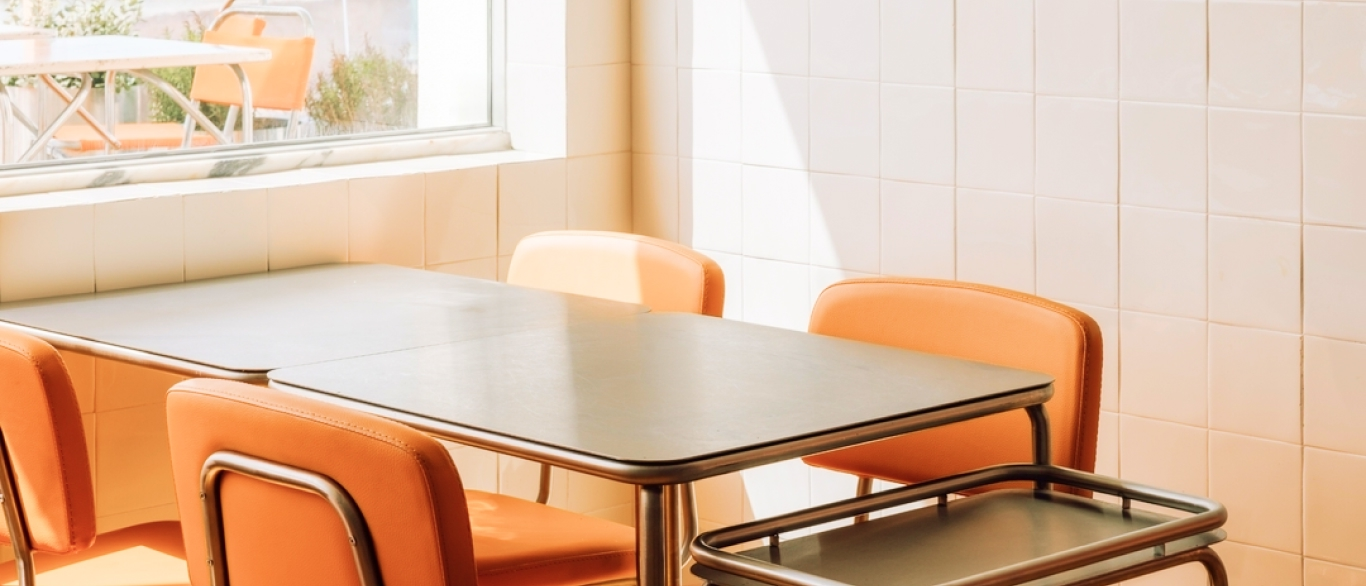
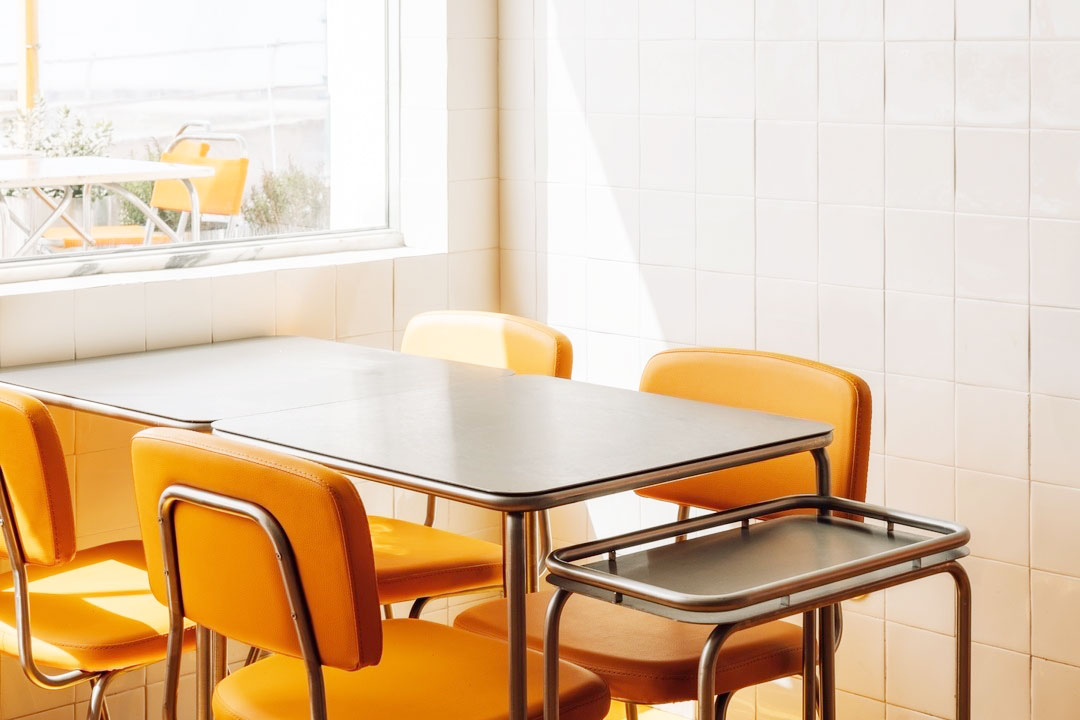
ajustes na home

diff --git a/src/pages/home/sectionAbout/index.tsx b/src/pages/home/sectionAbout/index.tsx
@@ -1,21 +1,31 @@
 import Styles from './About.module.scss';
-import imageAbout from 'assets/image-3.jpg';
+import imageAbout from 'assets/image-3_b.jpg';
+import imageSunset from 'assets/imageGallery_05.jpg';
 
-export default function About () {
+export default function About() {
     return (
         <section className={Styles.about}>
 
             <article className={Styles.about__container}>
                 <h2 className={Styles.about__container__title}>About the Costa Fria restaurant</h2>
-                <p className={Styles.about__container__text}>A modern restaurant that combines a cozy atmosphere with contemporary aesthetics. The interior space is charming, with an industrial design and steel tables that blend with vibrant-colored chairs, creating an interesting contrast. The textured ceiling, reminiscent of the sea foam that washes the coast, contrasts with the industrial lighting and exposed structure, creating a modern and laid-back environment. At sunset, the restaurant transforms into an ideal spot to enjoy the breathtaking view of the ocean in the background, where visitors can relax over dinner as daylight fades. The open kitchen also invites interaction, offering a glimpse into the preparation of dishes that highlight the fresh flavors of the region.</p>
-                <h2 className={Styles.about__container__title}>The concept</h2>
+                <p className={Styles.about__container__text}>A modern restaurant that combines a cozy atmosphere with contemporary aesthetics. The interior space is charming, with an industrial design and steel tables that blend with vibrant-colored chairs, creating an interesting contrast. The textured ceiling, reminiscent of the sea foam that washes the coast, contrasts with the industrial lighting and exposed structure, creating a modern and laid-back environment.</p>
+                <h2 className={Styles.about__container__titleConcept}>The concept</h2>
                 <p className={Styles.about__container__text}>Inspired by our idyllic seaside setting along the Atlantic coast, we bring bold flavors, coastal ingredients, and the diversity of Portuguese culinary culture. Contemporary and classic dishes, designed for sharing.
                 </p>
-                <span className={Styles.about__container__welcome}>welcome to ericeira</span>
+            </article>
+            <figure className={Styles.about__imgContainer}>
+                <img src={imageAbout} alt="" className={Styles.about__imgContainer__imgInside} />
+            </figure>
+
+
+            <article className={Styles.about__sunsetContainer}>
+                <h2 className={Styles.about__sunsetContainer__title}>Flavors at Sunset</h2>
+                <p className={Styles.about__sunsetContainer__text}>At sunset, the restaurant transforms into an ideal spot to enjoy the breathtaking view of the ocean in the background, where visitors can relax over dinner as daylight fades. The open kitchen also invites interaction, offering a glimpse into the preparation of dishes that highlight the fresh flavors of the region.</p>
+                <span className={Styles.about__sunsetContainer__welcome}>welcome to ericeira</span>
             </article>
 
-            <figure className={Styles.about__imgContainer}>
-                <img src={imageAbout} alt="" className={Styles.about__imgContainer__img} />
+            <figure className={Styles.about__imgContainerSunset}>
+                <img src={imageSunset} alt="" className={Styles.about__imgContainer__imgSunset} />
             </figure>
 
         </section>

diff --git a/src/pages/home/sectionAbout/About.module.scss b/src/pages/home/sectionAbout/About.module.scss
@@ -4,9 +4,11 @@
 .about {
     grid-column: 1 / span 8;
     padding: 0em 1em;
-    margin-top: 6em;
+    margin-top: 4em;
     @media (min-width: $desktop_xsm) {
         grid-column: 2 / span 6;
+        grid-column-gap: 2em;
+        grid-row-gap: 8em;
         display: grid;
         grid-template-columns: repeat(2, 1fr);
         padding: 8em 0;
@@ -19,12 +21,13 @@
         &__title {
             font-size: $title;
             font-weight: 500;
-            margin-bottom: 1em;
+            margin: 2em 0 1em;
             text-transform: uppercase;
             color: $text;
             @media (min-width: $desktop_xsm) {
                 grid-column: 1 / span 1;
                 grid-row: 1;
+                margin: 2em 0 1em;
             }
         }
         &__text {
@@ -37,21 +40,65 @@
                 grid-row: 1;
             }
         }
+        &__titleConcept {
+            font-size: $title;
+            font-weight: 500;
+            margin: 2em 0 1em;
+            text-transform: uppercase;
+            color: $text;
+            @media (min-width: $desktop_xsm) {
+                grid-column: 2 / span 1;
+            }
+        }
+    }
+
+    &__sunsetContainer {
+        @media (min-width: $desktop_xsm) {
+            grid-column: 2 / span 1;
+        }
+        &__title{
+            font-size: $title;
+            font-weight: 500;
+            margin: 2em 0 1em;
+            text-transform: uppercase;
+            color: $text;
+            @media (min-width: $desktop_xsm) {
+                margin: 2em 0 1em;
+            }
+        }
+        &__text {
+            font-size: $textBody;
+            color: $text;
+            margin-bottom: 2em;
+            line-height: $lineHeigt;
+        }
         &__welcome {
             color: $text;
             display: inline-block;
             font-size: $textBody;
-            margin-bottom: 2em;
             text-transform: uppercase;
         }
     }
+
     &__imgContainer {
         margin-top: 1em;
+        width: 100%;
         @media (min-width: $desktop_xsm) {
-            display: flex;
-            justify-content: flex-end;
+            margin-top: 0;
             grid-column: 2 / span 1;
             grid-row: 1;
+        }
+        &__imgInside {
+            width: 100%;
+        }
+    }
+    &__imgContainerSunset {
+        margin-top: 1em;
+        width: 100%;
+        @media (min-width: $desktop_xsm) {
+            margin-top: 0;
+            grid-column: 1 / span 1;
+            grid-row: 2;
         }
     }
 }

diff --git a/src/pages/home/index.tsx b/src/pages/home/index.tsx
@@ -11,7 +11,6 @@ import image01 from 'assets/imageGallery_01.jpg';
 import image02 from 'assets/imageGallery_02.jpg';
 import image03 from 'assets/imageGallery_03.jpg';
 import image04 from 'assets/imageGallery_04.jpg';
-import image05 from 'assets/imageGallery_05.jpg';
 import image06 from 'assets/imageGallery_06.jpg';
 import image08 from 'assets/imageGallery_08.jpg';
 import image09 from 'assets/imageGallery_09.jpg';
@@ -19,6 +18,9 @@ import image10 from 'assets/imageGallery_10.jpg';
 import image11 from 'assets/imageGallery_11.jpg';
 import image12 from 'assets/imageGallery_12.jpg';
 import image13 from 'assets/imageGallery_13.jpg';
+import image14 from 'assets/costaFria_sunsetView_03.jpg';
+import image15 from 'assets/costaFria_sunsetView_01.jpg';
+import image16 from 'assets/costaFria_sunsetView_02.jpg';
 
 
 const imageList = [
@@ -26,22 +28,26 @@ const imageList = [
     { src: image10, alt: 'Imagem 2' },
     { src: image03, alt: 'Imagem 3' },
     { src: image04, alt: 'Imagem 4' },
-    { src: image05, alt: 'Imagem 5' },
+    { src: image14, alt: 'Imagem 14' },
     { src: image06, alt: 'Imagem 7' },
     { src: image08, alt: 'Imagem 8' },
     { src: image09, alt: 'Imagem 9' },
+    { src: image13, alt: 'Imagem 13' },
     { src: image02, alt: 'Imagem 10' },
-    { src: image11, alt: 'Imagem 10' },
-    { src: image12, alt: 'Imagem 10' },
-    { src: image13, alt: 'Imagem 10' },
-  ];
+    { src: image15, alt: 'Imagem 15' },
+    { src: image11, alt: 'Imagem 11' },
+    { src: image12, alt: 'Imagem 12' },
+    { src: image16, alt: 'Imagem 16' },
+];
 
-export default function Home () {
+export default function Home() {
     return (
         <main className={Styles.top}>
+
             <img src={img_top_sm}
-            	alt="" 
-                className={Styles.top__img} />
+                alt=""
+                className={Styles.top__img} 
+            />
 
             <div className={Styles.top__info}>
                 <h1 className={Styles.top__info__title}>costa fria</h1>
@@ -55,7 +61,7 @@ export default function Home () {
             <Menu />
             <Chef />
             <Citacao />
-            <Gallery images={imageList}/>
+            <Gallery images={imageList} />
         </main>
     );
 }

diff --git a/src/pages/home/sectionChef/index.tsx b/src/pages/home/sectionChef/index.tsx
@@ -12,13 +12,10 @@ export default function Chef() {
                     <h2 className={Styles.chef__container__info__title}>chef tommy</h2>
 
                     <p className={Styles.chef__container__info__text}>
-                        Award-winning chef Athanasios Kargatzidis, fell in love with food and restaurants over twenty-five years ago. Cooking, researching, and studying his way across the world ever since, which led him to open one of Lebanon’s and MENA’s most renowned restaurants. Often describing his food as U+2018fusion cookingU+2018, Athanasios has been championing international flavours since stepping into kitchens, with food that holds flavour and texture, rather than tradition and provenance, as his central tenets.</p>
+                        The award-winning chef Athanasios Kargatzidis, passionate about food and restaurants for over 25 years, has been cooking, researching, and studying around the world. This led him to open one of the most renowned restaurants in Lebanon and the MENA region. Describing his food as &#x201C;fusion cooking,&#x201D; he values flavors and textures rather than traditions and origins.</p>
 
                     <p className={Styles.chef__container__info__text}>
                         In 2022, Costa Fria was born. Athanasios’ love of authenticity, fresh and simple cuisine has shaped our dishes. Fusing Eastern Mediterranean and Levantine flavours, it represents Athanasios refreshing, light-hearted and relaxed Hellenic hospitality style.</p>
-
-                    <p className={Styles.chef__container__info__text}>
-                        The dishes are made for sharing, grab a pitta, stuff it with grilled vegetables, smoky meat and top it with fresh salad. </p>
                 </div>
 
                 <img src={chefImage} alt="" className={Styles.chef__container__img} />

diff --git a/src/pages/home/Home.module.scss b/src/pages/home/Home.module.scss
@@ -6,26 +6,36 @@
     grid-template-columns: repeat(8, 1fr);
     max-width: 1366px;
     margin-bottom: 2em;
+    @media (min-width: $desktop_xsm) {
+        margin: 0 auto;
+    }
     &__img {
         grid-column: 1 / span 8;
         grid-row: 1;
         padding-top: 88px;
-        @media (min-width: $desktop_xsm) {
-            margin: 0 auto;
-        }
+        width: 100%;
+        display: none;
     }
     &__info {
+        background-image: url(../../assets/costaFria_sunsetView_03.jpg) ;
+        background-position: center;
+        background-repeat: no-repeat;
+        background-size: cover;
+        background-attachment: scroll, fixed;
         grid-column: 1 / span 8;
         grid-row: 1;
-        margin-top: 9em;
+        margin-top: 5em;
         transform: translate3d(0, 0, 0);
-        padding: 2em 1em 8em;
+        padding: 12em 1em 8em;
+        height: calc(100vh - 5em);
         @media (min-width: $desktop_xsm) {
-            grid-column: 2 / span 6;
-            padding: 0;
+            grid-column: 1 / span 8;
+            padding: 8em 11em;
+            height: calc(100vh - 5em);
+
         }
         &__title {
-            color: $text;
+            color: $light;
             font-size: 3em;
             font-weight: 500;
             margin-bottom: .5em;
@@ -40,8 +50,7 @@
             font-size: 1.35em;
             font-weight: 300;
             line-height: 1.2;
-            background-color: $primary;
-            padding: .3em .5em;
+            padding: .3em 0em;
             margin-top: .3em;
             @media (min-width: $desktop_xsm) {
                 width: 65%;

diff --git a/src/pages/home/sectionCitacao/index.tsx b/src/pages/home/sectionCitacao/index.tsx
@@ -4,7 +4,7 @@ export default function Citacao () {
     return (
         <section className={Styles.citacao}>
             <h3 className={Styles.citacao__title}>Tasting Notes</h3>
-            <p className={Styles.citacao__text}>“I fell in love with food at an early age and have been cooking across the world ever since. I’m delighted this journey brings me to London where my menu at Assembly showcases Eastern Mediterranean cuisine in all its excellence.”</p>
+            <p className={Styles.citacao__text}>&#x201C;I fell in love with food at an early age and have been cooking around the world ever since. I’m delighted that this journey has brought me to Portugal, where my menu at Costa Fria represents Eastern Mediterranean cuisine and revisits traditional Portuguese dishes.&#x201D;</p>
             <h4 className={Styles.citacao__name}><span>-Chef</span> ATHANASIOS KARGATZIDIS</h4>
         </section>
     );

diff --git a/src/components/button/Button.module.scss b/src/components/button/Button.module.scss
@@ -11,7 +11,7 @@
     font-weight: 700;
     font-size: 1em;
     padding: .7em 2em;
-    border: 0;
+    border: 1px solid rgba(255,255,255,.3);
 
     &:hover {
         box-shadow: 0px 0px 8px 0px black inset;
@@ -34,7 +34,7 @@
     font-weight: 700;
     font-size: 1em;
     padding: .7em 2em;
-    border: 0;
+    border: 1px solid rgba(255,255,255,.3);
 
     &:hover {
         box-shadow: 0px 0px 8px 0px black inset;

diff --git a/src/pages/home/sectionChef/Chef.module.scss b/src/pages/home/sectionChef/Chef.module.scss
@@ -48,8 +48,6 @@
             @media (min-width: $desktop_xsm) {
                 grid-column: 1 / span 2;
                 grid-row: 1;
-                max-width: 106%;
-                width: 105%;
             }
         }
     }

diff --git a/src/pages/home/sectionCitacao/Citacao.module.scss b/src/pages/home/sectionCitacao/Citacao.module.scss
@@ -15,7 +15,6 @@
         font-weight: 500;
         text-transform: uppercase;
         display: inline-block;
-        border-bottom: 1px solid $text;
         margin-bottom: 2em;
     }
     &__text {
